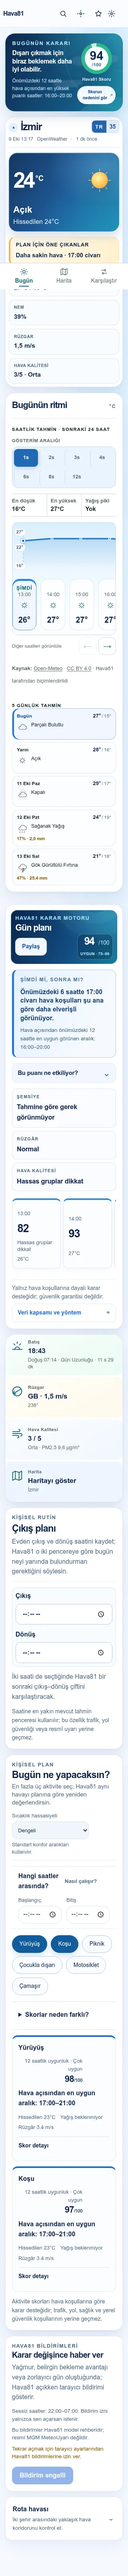
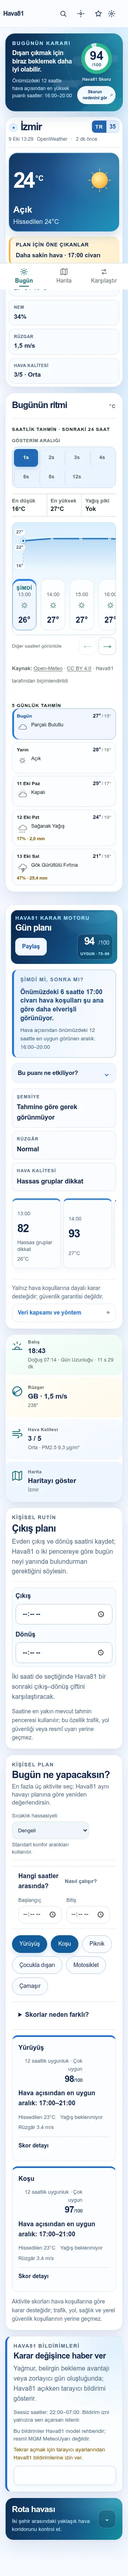
fix(a11y): make province badge legible and refresh screenshots

Changed region(s): [[0.0312, 0.9051, 0.9688, 0.9988]]

diff --git a/src/styles/HomeEditorialRefresh.css b/src/styles/HomeEditorialRefresh.css
@@ -48,7 +48,8 @@
     color: #fff;
   }
   .app[data-color-mode='light'] .hava81-decision-field__plate span {
-    background: #2e86d7;
+    /* White TR lettering needs AA contrast, including on the navy panel. */
+    background: #1659a5;
   }
   .app[data-color-mode='light'] .hava81-decision-field__current {
     min-height: 17.8rem;

diff --git a/docs/visual-reviews/home-editorial-20261009/README.md b/docs/visual-reviews/home-editorial-20261009/README.md
@@ -58,6 +58,7 @@ The capture command uses `scripts/capture-visual-audit.mjs`; it checks HTTP 200,
 - Playwright responsive capture: 5/5 viewport/theme combinations passed for both production baseline and preview (10 captures); no JavaScript page exceptions or horizontal overflow.
 - Targeted browser regressions: **5 passed** (hero, score artwork collision, 320px city / text zoom, atmospheric scene text zoom and mobile map focus).
 - Follow-up CSS correction retains the existing opaque panel computed-style contract without losing the navy gradient appearance.
+- The first GitHub browser suite flagged light-theme plate-label contrast. The **TR label backing was darkened to #1659a5** (the readable white text was kept). The full axe-core WCAG-AA color-contrast regression across 320px/390px/1440px and light/dark, Turkish/English was rerun locally and passed.
 
 ## Release gate
 
